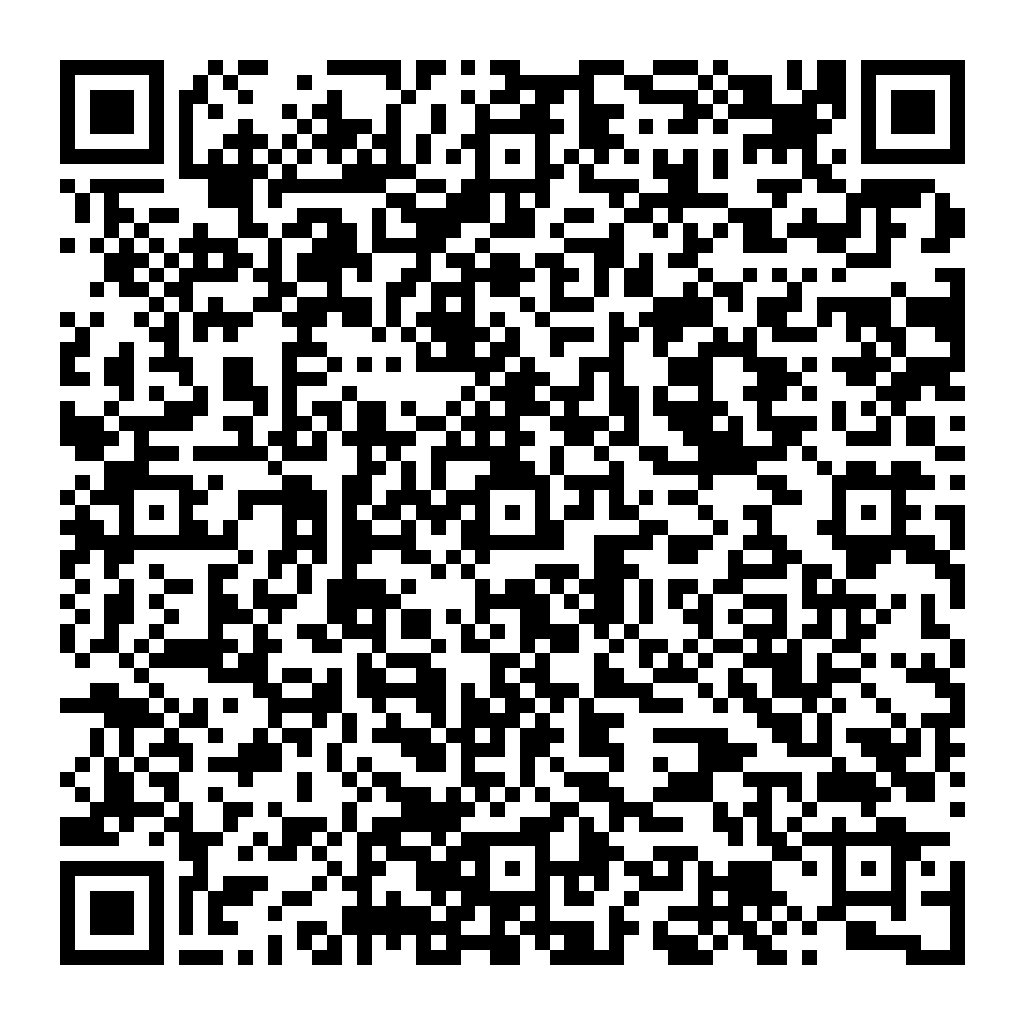
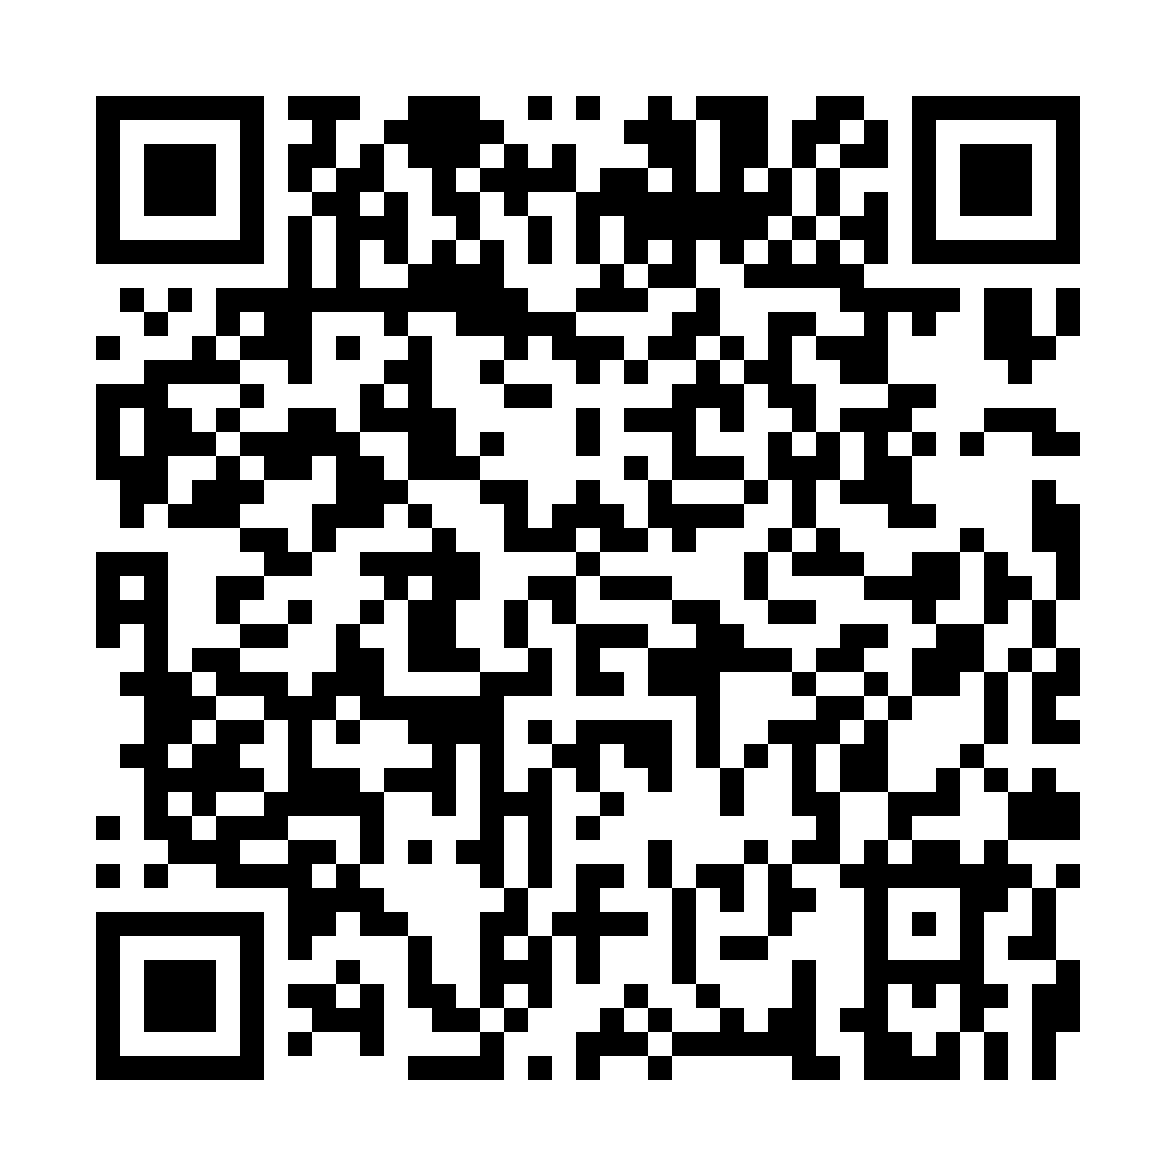
QR v2: point at the stable sensors.social address, shorten the payload
The guide now lives at https://sensors.social/altruist-ai-guide.md (merged in
airalab/sensors.social#367), so the printed codes no longer have to carry a
long raw.githubusercontent.com URL.

The payload also drops the long instruction sentence. It was added in c81d6ec
because a bare link made assistants summarise the guide instead of helping,
but guide v1.5 section 1 now covers that case itself, so the QR only needs a
short intent hint:

  Help me set up my Altruist: https://sensors.social/altruist-ai-guide.md

Effect: 228 chars -> 71, version 11 (61x61 modules) -> version 6 (41x41) at the
same ECC level Q. A third fewer modules across means noticeably larger modules
at the same printed size, which matters on packaging.

Add tools/generate-qr.mjs and tools/verify-qr.mjs so the assets are
reproducible instead of being regenerated from memory each time.

diff --git a/README.md b/README.md
@@ -4,7 +4,12 @@ AI-readable setup guides for smart devices — a manual for the age of AI assist
 
 <img src="altruist/altruist-guide-qr.png" width="300" alt="QR code — Altruist AI assistant guide">
 
-**Photograph this QR code straight into a chat with your AI assistant** (ChatGPT, Claude, Gemini, ...) — or scan it and paste the decoded text. The QR encodes a ready-made request plus a link to the [Altruist](altruist/) guide, so the assistant immediately knows you want setup help.
+**Photograph this QR code straight into a chat with your AI assistant** (ChatGPT, Claude, Gemini, ...) — or scan it and paste the decoded text. The QR encodes a short request plus a link to the [Altruist](altruist/) guide, so the assistant immediately knows you want setup help:
+
+> Help me set up my Altruist: https://sensors.social/altruist-ai-guide.md
+
+The guide is served from the project's own domain, so printed codes keep working
+if the file moves. Regenerate the assets with `npm install && npm run qr`.
 
 ## The idea
 
@@ -23,8 +28,9 @@ about how the device works.
 
 ## How to use (for humans)
 
-Scan the QR code on your device, or open the raw link to the guide file, and
-send it to your AI assistant with a message like:
+Scan the QR code on your device, or open the guide at
+<https://sensors.social/altruist-ai-guide.md>, and send it to your AI assistant
+with a message like:
 
 > Help me set up this device.
 
